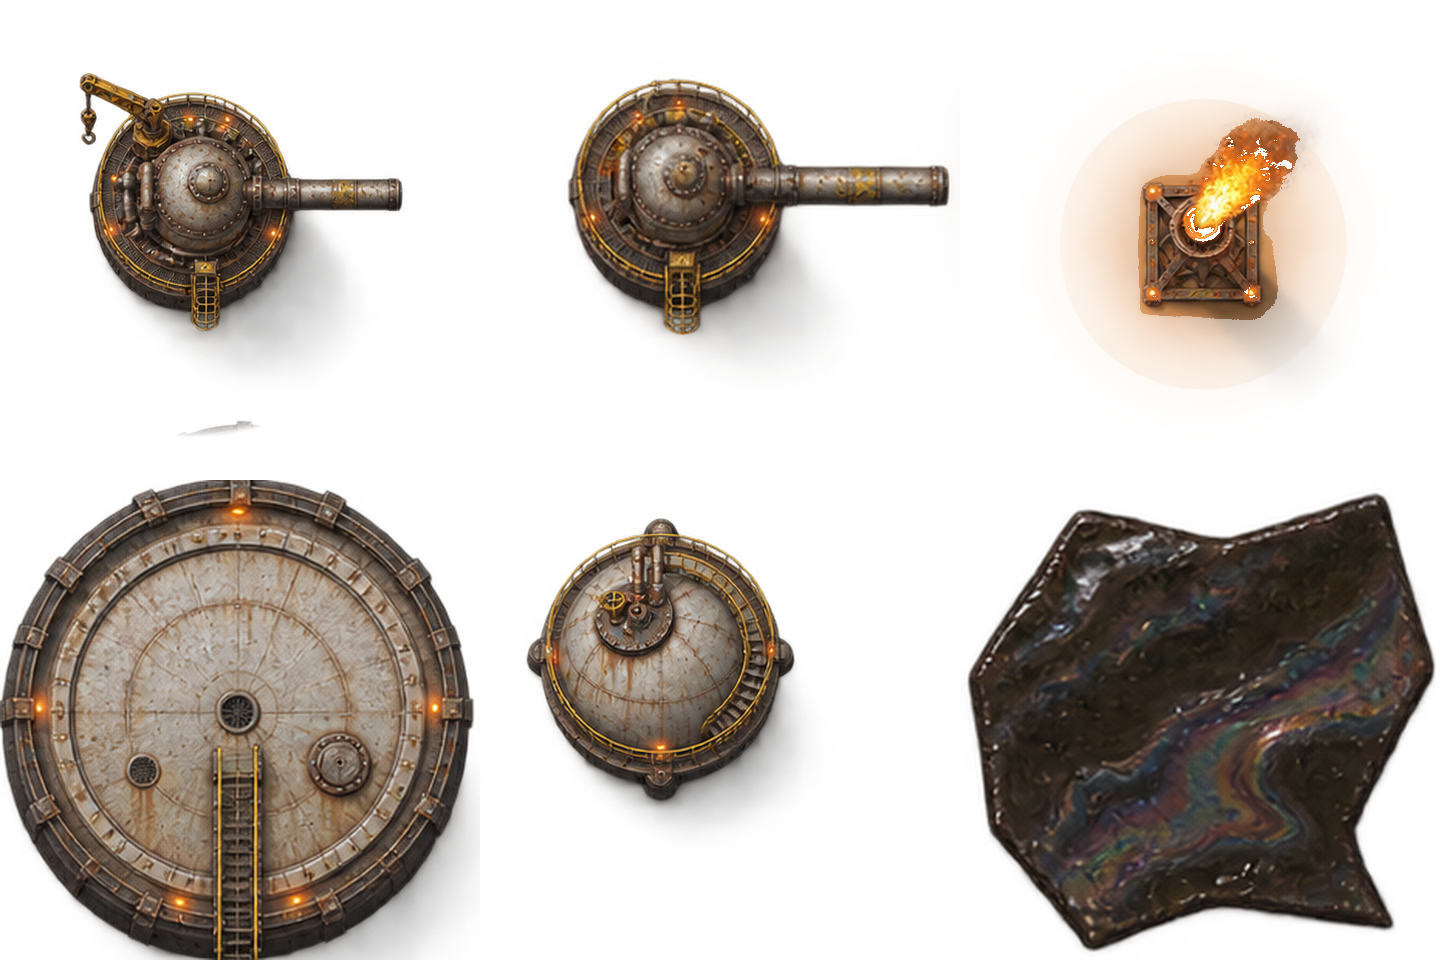
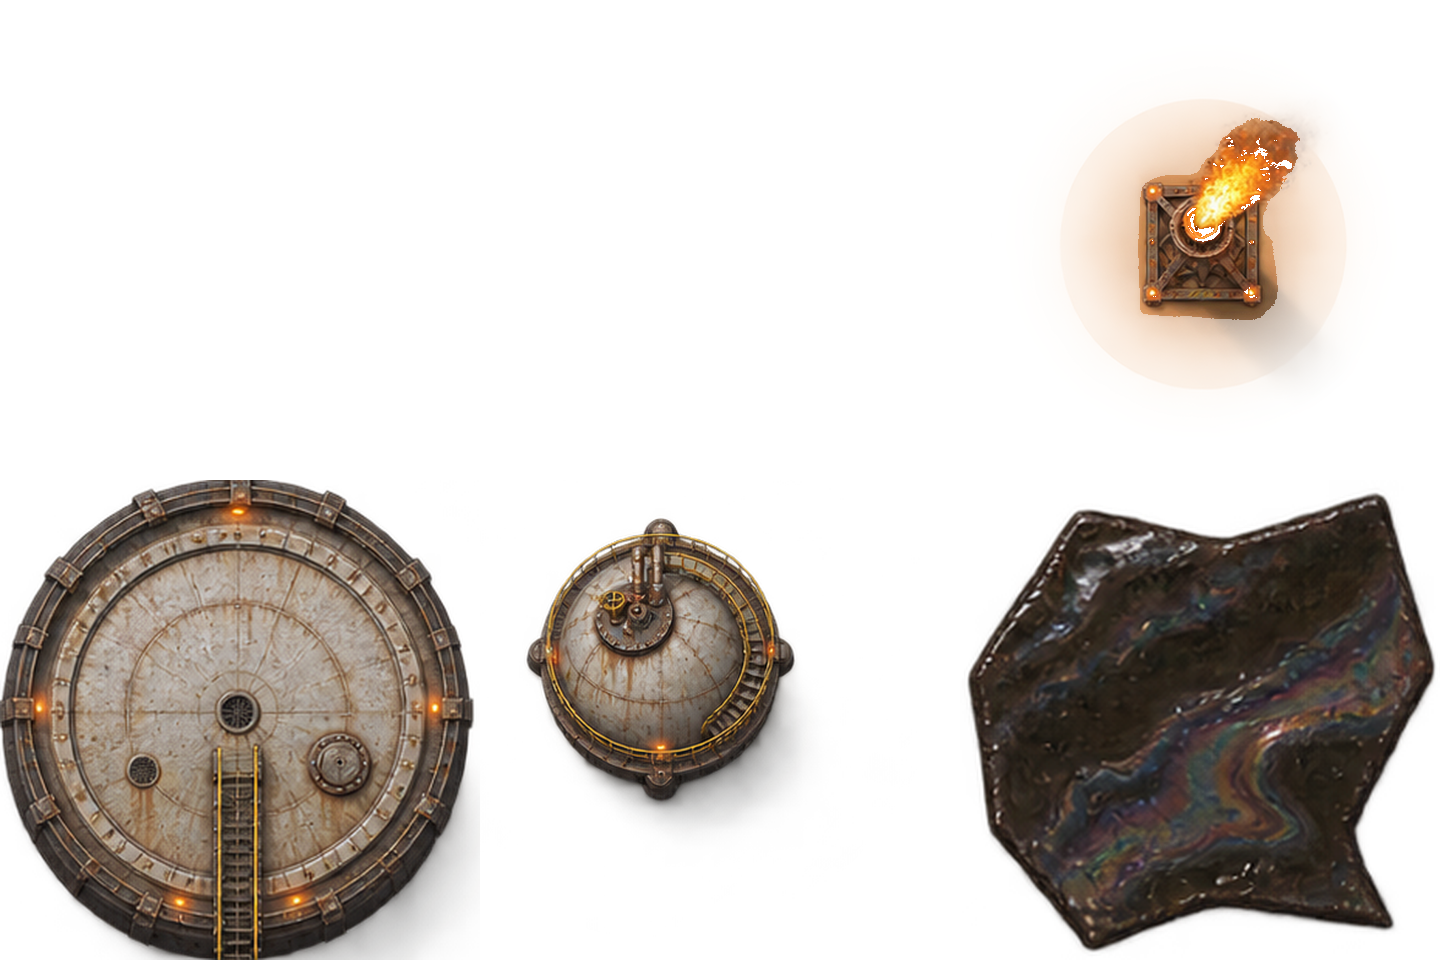
Refinery: the unit heaters redrawn in the works tileset's style
Owner on raid-refinery-roles: the heaters' art did not match the rest of the
space and stuck out. The distillation column, stripper and furnace stack are
regenerated over a new guide with the works tileset (ruins-works-plant) as the
style authority: flat top-down plates, gunmetal and grey steel, riveted rims,
no brass, no glowing lamps, short shadows, a faint wisp of smoke. They ship on
refinery-heaters.png under the same ids at the same placing, so the dressing
is unchanged; the old frames are left out of the plant and utilities sheets.

Tests run: RefineryGroundTest, RefiningWorksTest.

Changed region(s): [[0.375, 0.0625, 0.6562, 0.375], [0.0312, 0.0625, 0.2812, 0.375], [0.125, 0.4375, 0.1875, 0.4688]]

diff --git a/art-source/refinery/refinery-heaters-export.py b/art-source/refinery/refinery-heaters-export.py
@@ -1,0 +1,60 @@
+"""Cut the refinery heaters master into the shipped prop sheet and its tileset.
+
+    python art-source/refinery/refinery-heaters-export.py
+
+Reads refinery-heaters.raw.png (the ImageGen master over refinery-heaters-guide.png, in the works tileset's flat
+style) and writes mod/graphics/doodads/refinery-heaters.png (one row of three FRAME px frames) and
+mod/data/tilesets/refinery-heaters.tileset.json. The frames keep the placing RefineryGround draws them by:
+  column, stripper  platform ring radius 0.20 of the frame, centre at (0.40, 0.40)
+  stack             chimney ring radius 0.125, centre at (0.375, 0.375)
+A neighbour reaching into a frame's edge is cut away.
+"""
+import json
+from pathlib import Path
+
+import numpy as np
+from PIL import Image
+
+ROOT = Path(__file__).resolve().parents[2]
+SRC = ROOT / "art-source/refinery/refinery-heaters.raw.png"
+SHEET = ROOT / "mod/graphics/doodads/refinery-heaters.png"
+TILESET = ROOT / "mod/data/tilesets/refinery-heaters.tileset.json"
+FRAME = 480
+
+# id, col, ring centre measured on the master (px), ring radius (px), radius as frame fraction, centre fraction,
+# shares of the frame's left and right edges to clear
+PIECES = [
+    ("refinery.column", 0, (466, 445), 88, 0.20, 0.40, (0.0, 0.06)),
+    ("refinery.stripper", 1, (806, 443), 86, 0.20, 0.40, (0.05, 0.0)),
+    ("refinery.stack", 2, (1132, 443), 58, 0.125, 0.375, (0.06, 0.0)),
+]
+
+
+def main():
+    src = Image.open(SRC).convert("RGBA")
+    sheet = Image.new("RGBA", (3 * FRAME, FRAME), (0, 0, 0, 0))
+    cells, doodads = [], []
+    for pid, col, (cx, cy), radius, fraction, at, cut in PIECES:
+        side = radius / fraction
+        x0, y0 = cx - at * side, cy - at * side
+        box = tuple(int(round(v)) for v in (x0, y0, x0 + side, y0 + side))
+        img = src.crop(box).resize((FRAME, FRAME), Image.LANCZOS)
+        left, right = cut
+        if left or right:
+            a = np.array(img)
+            a[:, :int(left * FRAME), 3] = 0
+            if right:
+                a[:, FRAME - int(right * FRAME):, 3] = 0
+            img = Image.fromarray(a)
+        sheet.alpha_composite(img, (col * FRAME, 0))
+        cells.append({"col": col, "row": 0, "name": pid})
+        doodads.append({"id": pid, "col": col, "row": 0, "cover": "none", "ballisticHalfHeight": 0,
+                        "footprintCells": [1, 1]})
+    sheet.save(SHEET, optimize=True)
+    TILESET.write_text(json.dumps({"sheet": "graphics/doodads/refinery-heaters.png", "cellPx": FRAME,
+                                   "cells": cells, "doodads": doodads}, indent=2) + "\n", encoding="utf-8")
+    print(f"wrote {SHEET.relative_to(ROOT)} {sheet.size} and {TILESET.relative_to(ROOT)}")
+
+
+if __name__ == "__main__":
+    main()

diff --git a/art-source/refinery/refinery-heaters-guide.py b/art-source/refinery/refinery-heaters-guide.py
@@ -1,0 +1,68 @@
+"""Geometry guide for the refinery's unit heaters in the tileset's flat style (`RefineryGround`).
+
+Three square pieces in one row on a 1920x1080 canvas, each in a 320 px cell inside a 384 px frame, seen from straight
+above as flat plates (the works tileset's way), each with only a short soft shadow to the lower right:
+
+  1 distillation column: head plate centred at (.40, .40), platform ring radius .20, vapour line east
+  2 stripper column: the same, smaller head, the same ring and centre
+  3 furnace stack: chimney ring radius .125 centred at (.375, .375), a short plume of smoke east
+
+    python art-source/refinery/refinery-heaters-guide.py
+"""
+from pathlib import Path
+
+from PIL import Image, ImageDraw
+
+CELL, FRAME, COLS = 320, 384, 3
+LEFT = (1920 - COLS * FRAME) // 2
+TOP = (1080 - FRAME) // 2
+img = Image.new("RGBA", (1920, 1080), (0, 0, 0, 0))
+d = ImageDraw.Draw(img)
+
+STEEL = (130, 130, 128, 255)
+LIGHT = (165, 163, 158, 255)
+DARK = (70, 72, 74, 255)
+SHADOW = (0, 0, 0, 90)
+SMOKE = (90, 90, 90, 90)
+
+
+def p(i, x, y):
+    return LEFT + i * FRAME + (FRAME - CELL) // 2 + x * CELL, TOP + (FRAME - CELL) // 2 + y * CELL
+
+
+def circle(i, cx, cy, r, color, width=0):
+    x, y = p(i, cx, cy)
+    box = [x - r * CELL, y - r * CELL, x + r * CELL, y + r * CELL]
+    if width:
+        d.ellipse(box, outline=color, width=width)
+    else:
+        d.ellipse(box, fill=color)
+
+
+def rect(i, x0, y0, x1, y1, color):
+    a, b = p(i, x0, y0)
+    c, e = p(i, x1, y1)
+    d.rectangle([a, b, c, e], fill=color)
+
+
+def soft(i, cx, cy, r, color):
+    layer = Image.new("RGBA", img.size, (0, 0, 0, 0))
+    ImageDraw.Draw(layer).ellipse([*p(i, cx - r, cy - r), *p(i, cx + r, cy + r)], fill=color)
+    img.alpha_composite(layer)
+
+
+for i, head in ((0, .15), (1, .11)):
+    soft(i, .43, .43, .20, SHADOW)           # a short shadow, offset a little
+    circle(i, .40, .40, .20, LIGHT)          # platform ring
+    circle(i, .40, .40, head, STEEL)         # head plate
+    circle(i, .40, .40, .04, DARK)           # top nozzle
+    rect(i, .58, .37, 1.0, .43, DARK)        # vapour line east
+
+soft(2, .40, .40, .13, SHADOW)
+circle(2, .375, .375, .125, LIGHT)           # platform ring
+circle(2, .375, .375, .09, STEEL)            # chimney
+circle(2, .375, .375, .06, DARK)             # flue
+for k in range(6):
+    soft(2, .47 + .06 * k, .40 + .02 * k, .05 + .015 * k, SMOKE)
+
+img.save(Path(__file__).with_name("refinery-heaters-guide.png"))

diff --git a/art-source/refinery/refinery-utilities-export.py b/art-source/refinery/refinery-utilities-export.py
@@ -26,6 +26,9 @@ SRC = ROOT / "art-source/refinery/refinery-utilities.raw.png"
 SHEET = ROOT / "mod/graphics/doodads/refinery-utilities.png"
 TILESET = ROOT / "mod/data/tilesets/refinery-utilities.tileset.json"
 FRAME = 480
+# Redrawn in the works tileset's flat style on refinery-heaters.png (refinery-heaters-export.py): left blank here,
+# so each id is defined once.
+SUPERSEDED = {"refinery.stack"}
 
 # id, col, row, centre measured on the master (px), crop side (px), where the centre falls across the crop
 PIECES = [
@@ -43,6 +46,8 @@ def main():
     sheet = Image.new("RGBA", (3 * FRAME, 2 * FRAME), (0, 0, 0, 0))
     cells, doodads = [], []
     for pid, col, row, (cx, cy), side, at in PIECES:
+        if pid in SUPERSEDED:
+            continue
         x0, y0 = cx - at * side, cy - at * side
         box = tuple(int(round(v)) for v in (x0, y0, x0 + side, y0 + side))
         img = src.crop(box).resize((FRAME, FRAME), Image.LANCZOS)

diff --git a/art-source/refinery/refinery-plant-export.py b/art-source/refinery/refinery-plant-export.py
@@ -27,6 +27,9 @@ SRC = ROOT / "art-source/refinery/refinery-plant.raw.png"
 SHEET = ROOT / "mod/graphics/doodads/refinery-plant.png"
 TILESET = ROOT / "mod/data/tilesets/refinery-plant.tileset.json"
 FRAME = 480
+# Redrawn in the works tileset's flat style on refinery-heaters.png (refinery-heaters-export.py): left blank here,
+# so each id is defined once.
+SUPERSEDED = {"refinery.column", "refinery.stripper"}
 
 # Measured on the master (px): centre and the radius that is the footprint disc.
 PIECES = [
@@ -77,6 +80,8 @@ def main():
     sheet = Image.new("RGBA", (3 * FRAME, 2 * FRAME), (0, 0, 0, 0))
     doodads, cells = [], []
     for pid, col, row, centre, radius, fraction, at in PIECES:
+        if pid in SUPERSEDED:
+            continue
         img = crop(src, centre, radius, fraction, at)
         if pid == "refinery.flare":
             img = soften_glow(circle_mask(img, 0.5, 0.5, 0.40, 0.44))

diff --git a/src/main/java/com/dillon/starsectormarines/battle/world/tiles/TileRegistry.java b/src/main/java/com/dillon/starsectormarines/battle/world/tiles/TileRegistry.java
@@ -240,6 +240,7 @@ public final class TileRegistry {
             "data/tilesets/ore-conveyor-motions.tileset.json",
             "data/tilesets/refinery-plant.tileset.json",
             "data/tilesets/refinery-utilities.tileset.json",
+            "data/tilesets/refinery-heaters.tileset.json",
             "data/tilesets/origin-lab-annex.tileset.json",
             "data/tilesets/origin-lab-kit.tileset.json",
             "data/tilesets/origin-park-bandstand.tileset.json",

diff --git a/roadmap/mission-command/stories/raid-site-templates.md b/roadmap/mission-command/stories/raid-site-templates.md
@@ -107,9 +107,10 @@ sight lines before the works' wall.
   of the vanilla sprite until stage art is drawn; roofs still hide each hall's role).
   Refining rebuilt as its process after the owner rejected the generic stills
   (`RefiningWorks`, `RefineryGround`, `TankFarm`, `PipeRack`; its own sheet,
-  `refinery-plant`, for the columns, flare, floating-roof tanks, volatiles
-  spheres and spills, and `refinery-utilities` for what each house does:
-  furnace stacks, cooling tower, pump skids, comms mast, lab gas rack, loading
+  `refinery-plant`, for the flare, floating-roof tanks, volatiles spheres and
+  spills, `refinery-heaters` for the units' columns and furnace stacks in the
+  works tileset's flat style, and `refinery-utilities` for what each house
+  does: cooling tower, pump skids, comms mast, lab gas rack, loading
   islands; bund walls and tankers still stand-ins;
   `createSnapshots -Psnapshot=raid-refinery-site-look`).
 
